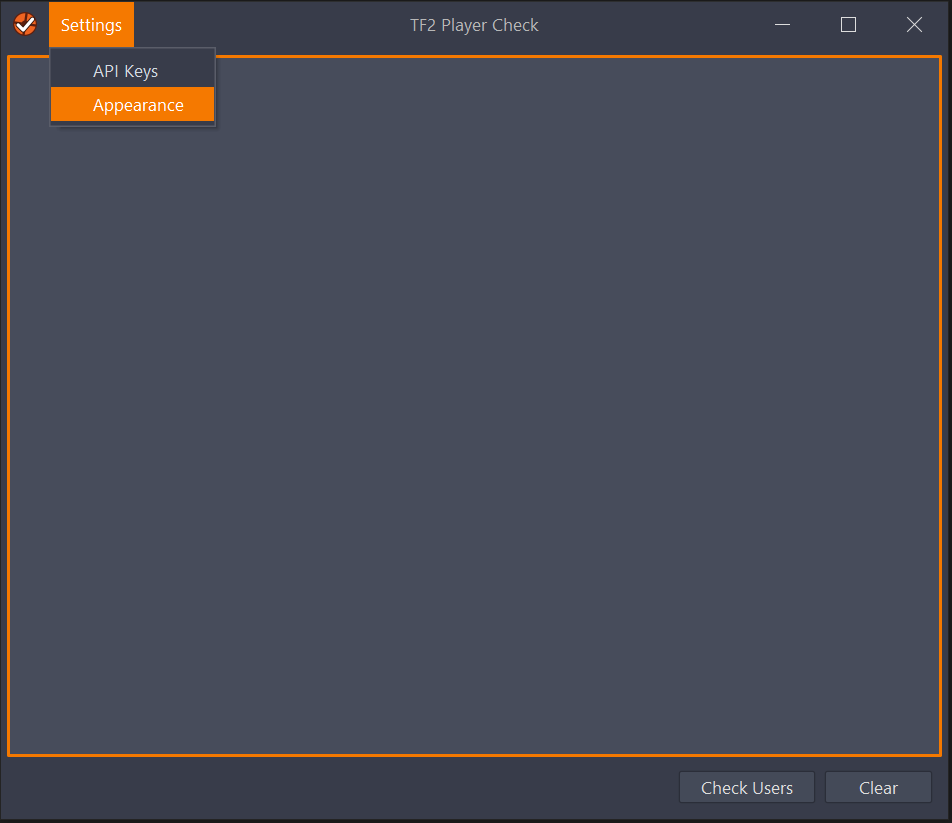
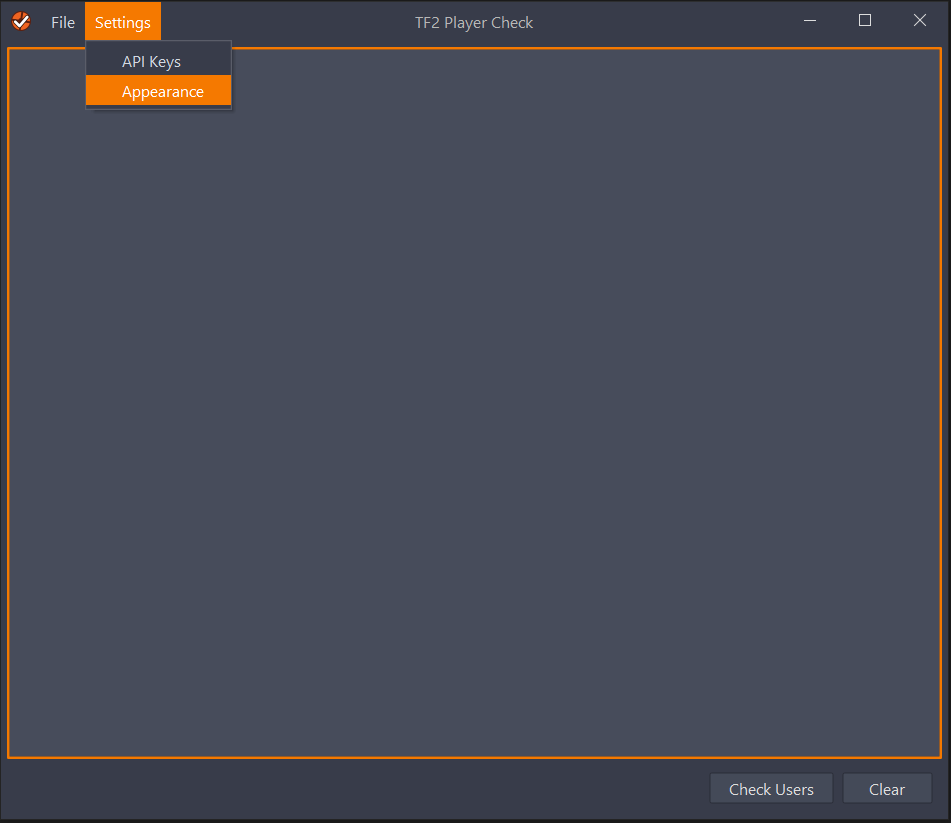
added file importing

Changed region(s): [[0.0, 0.0, 1.0, 0.9721]]

diff --git a/src/main/java/com/fooberticus/tf2playercheck/gui/frames/MainWindow.java b/src/main/java/com/fooberticus/tf2playercheck/gui/frames/MainWindow.java
@@ -17,9 +17,16 @@ import com.fooberticus.tf2playercheck.utils.SteamUtils;
 import lombok.extern.slf4j.Slf4j;
 
 import javax.swing.*;
+import javax.swing.filechooser.FileNameExtensionFilter;
 import java.awt.*;
 import java.awt.event.MouseAdapter;
 import java.awt.event.MouseEvent;
+import java.awt.event.WindowAdapter;
+import java.awt.event.WindowEvent;
+import java.io.BufferedReader;
+import java.io.File;
+import java.io.FileReader;
+import java.io.IOException;
 import java.util.ArrayList;
 import java.util.HashMap;
 import java.util.List;
@@ -186,6 +193,18 @@ public class MainWindow extends JFrame {
 
     private void showLoadingDialog(SwingWorker<Void, Void> mySwingWorker, String labelText) {
         final JDialog dialog = new JDialog(this, null, Dialog.ModalityType.APPLICATION_MODAL);
+        dialog.add(new LoadingPanel(labelText));
+        dialog.pack();
+        dialog.setLocationRelativeTo(this);
+
+        dialog.addWindowListener(new WindowAdapter() {
+            @Override
+            public void windowClosing(WindowEvent e) {
+                if (!mySwingWorker.isDone()) {
+                    mySwingWorker.cancel(true);
+                }
+            }
+        });
 
         mySwingWorker.addPropertyChangeListener(evt -> {
             if (evt.getPropertyName().equals("state")) {
@@ -194,11 +213,8 @@ public class MainWindow extends JFrame {
                 }
             }
         });
-        mySwingWorker.execute();
 
-        dialog.add(new LoadingPanel(labelText));
-        dialog.pack();
-        dialog.setLocationRelativeTo(this);
+        mySwingWorker.execute();
         dialog.setVisible(true);
     }
 
@@ -217,13 +233,26 @@ public class MainWindow extends JFrame {
             return;
         }
 
+        if (serverPlayers.size() > 100) {
+            JOptionPane.showMessageDialog(this,
+                    serverPlayers.size() +
+                            " Steam IDs found. Requests will be processed " +
+                            "in batches of 100 until complete.");
+        }
+
         disableButtons();
 
-        loadSteamSummaries(serverPlayers);
-        loadSteamBans(serverPlayers);
-        loadRentAMedicCheaters(serverPlayers);
-        loadSteamHistory(serverPlayers);
-        loadBackpackPlayers(serverPlayers);
+        int chunkSize = 100;
+        int size = serverPlayers.size();
+        for (int i = 0; i < size; i += chunkSize) {
+            List<ServerPlayer> subList = serverPlayers.subList(i, Math.min(i + chunkSize, size));
+
+            loadSteamSummaries(subList);
+            loadSteamBans(subList);
+            loadRentAMedicCheaters(subList);
+            loadSteamHistory(subList);
+            loadBackpackPlayers(subList);
+        }
 
         ResultsWindow.startResultsWindow(new HashMap<>(sourceBanMap), new HashMap<>(steamPlayerBanMap), new HashMap<>(rentAMedicResultMap), new HashMap<>(steamPlayerSummaryMap), new HashMap<>(backpackPlayerMap), serverPlayers);
 
@@ -235,6 +264,50 @@ public class MainWindow extends JFrame {
 
         enableButtons();
     }
+
+    private void importFromFile() {
+        JFileChooser fileChooser = new JFileChooser( GuiUtil.getLastFilePath() );
+
+        FileNameExtensionFilter filter = new FileNameExtensionFilter("Text Files", "txt", "text", "log");
+        fileChooser.setFileFilter(filter);
+
+        int result = fileChooser.showOpenDialog(null);
+
+        if (result == JFileChooser.APPROVE_OPTION) {
+            SwingWorker<Void, Void> mySwingWorker = new SwingWorker<>() {
+                @Override
+                protected Void doInBackground() throws Exception {
+                    File selectedFile = fileChooser.getSelectedFile();
+                    GuiUtil.setLastFilePath( selectedFile.getParent() );
+
+                    StringBuilder stringBuilder = new StringBuilder();
+                    try (BufferedReader reader = new BufferedReader( new FileReader( selectedFile ) )) {
+                        String line;
+                        while ( (line = reader.readLine()) != null ) {
+                            stringBuilder.append(line).append("\n");
+                            if ( isCancelled() ) {
+                                log.info("import cancelled");
+                                break;
+                            }
+                        }
+                    } catch (IOException e) {
+                        log.error("Error reading file: {}", e.getMessage());
+                        GuiUtil.showSystemTrayError("Error reading file: " + e.getMessage());
+                    }
+
+                    if ( !stringBuilder.isEmpty() ) {
+                        statusTextArea.setText( stringBuilder.toString() );
+                    }
+
+                    return null;
+                }
+            };
+
+            showLoadingDialog(mySwingWorker, "importing file...");
+        }
+
+    }
+
 
     private void enableButtons() {
         checkUsersButton.setEnabled(true);
@@ -250,6 +323,8 @@ public class MainWindow extends JFrame {
         // JFormDesigner - Component initialization - DO NOT MODIFY  //GEN-BEGIN:initComponents  @formatter:off
         // Generated using JFormDesigner non-commercial license
         menuBar1 = new JMenuBar();
+        menu2 = new JMenu();
+        menuItem3 = new JMenuItem();
         menu1 = new JMenu();
         menuItem1 = new JMenuItem();
         menuItem2 = new JMenuItem();
@@ -266,6 +341,17 @@ public class MainWindow extends JFrame {
 
         //======== menuBar1 ========
         {
+
+            //======== menu2 ========
+            {
+                menu2.setText("File"); //NON-NLS
+
+                //---- menuItem3 ----
+                menuItem3.setText("Import..."); //NON-NLS
+                menuItem3.addActionListener(e -> importFromFile());
+                menu2.add(menuItem3);
+            }
+            menuBar1.add(menu2);
 
             //======== menu1 ========
             {
@@ -335,6 +421,8 @@ public class MainWindow extends JFrame {
     // JFormDesigner - Variables declaration - DO NOT MODIFY  //GEN-BEGIN:variables  @formatter:off
     // Generated using JFormDesigner non-commercial license
     private JMenuBar menuBar1;
+    private JMenu menu2;
+    private JMenuItem menuItem3;
     private JMenu menu1;
     private JMenuItem menuItem1;
     private JMenuItem menuItem2;

diff --git a/src/main/java/com/fooberticus/tf2playercheck/utils/SteamUtils.java b/src/main/java/com/fooberticus/tf2playercheck/utils/SteamUtils.java
@@ -18,6 +18,7 @@ import java.util.regex.Pattern;
 public final class SteamUtils {
 
     public static final long STEAM_64_BASE = 76561197960265728L;
+    private static final Pattern STEAM_ID_64_PATTERN = Pattern.compile("(7[0-9]{16})");
     private static final Pattern STEAM_ID_32_PATTERN = Pattern.compile("\\[U:1:([0-9]+)]");
     private static final Pattern ID_PLUS_TIMESTAMP_PATTERN = Pattern.compile("\\[U:1:([0-9]+)] +([0-9:]+) +([0-9]+)");
 
@@ -30,11 +31,19 @@ public final class SteamUtils {
 
     public static List<Long> getUserIdsFromText(final String text) {
         Set<Long> result = new HashSet<>();
-        Matcher m = STEAM_ID_32_PATTERN.matcher(text);
-        while ( m.find() ) {
-            int steam32 = Integer.parseInt(m.group(1));
+
+        Matcher matcher32 = STEAM_ID_32_PATTERN.matcher(text);
+        while ( matcher32.find() ) {
+            int steam32 = Integer.parseInt(matcher32.group(1));
             result.add(steam32 + STEAM_64_BASE);
         }
+
+        Matcher matcher64 = STEAM_ID_64_PATTERN.matcher(text);
+        while ( matcher64.find() ) {
+            long steam64 = Long.parseLong(matcher64.group(1));
+            result.add(steam64);
+        }
+
         return result.stream().toList();
     }
 

diff --git a/src/main/java/com/fooberticus/tf2playercheck/utils/GuiUtil.java b/src/main/java/com/fooberticus/tf2playercheck/utils/GuiUtil.java
@@ -43,6 +43,8 @@ public final class GuiUtil {
     private static final String PROPERTY_WINDOW_X = "windowX";
     private static final String PROPERTY_WINDOW_Y = "windowY";
 
+    private static final String PROPERTY_LAST_FILE_PATH = "lastFilePath";
+
     private static final String PROPERTY_STEAM_HISTORY_KEY = "steamHistoryKey";
     private static final String PROPERTY_STEAM_API_KEY = "steamApiKey";
     private static final String PROPERTY_BACKPACKTF_API_KEY = "backpackTfApiKey";
@@ -291,6 +293,16 @@ public final class GuiUtil {
 
     public static void saveBackpackTfApiKey(String key) {
         prefs.put(PROPERTY_BACKPACKTF_API_KEY, key);
+    }
+
+    /* File Utilities */
+
+    public static String getLastFilePath() {
+        return prefs.get(PROPERTY_LAST_FILE_PATH, null);
+    }
+
+    public static void setLastFilePath(String path) {
+        prefs.put(PROPERTY_LAST_FILE_PATH, path);
     }
 
 }

diff --git a/README.md b/README.md
@@ -13,7 +13,21 @@ This tool takes console output from the `status` command to check several differ
 
 ![](https://github.com/fooberticus/TF2PlayerCheck/blob/main/img/10-right-mouse-1.png)
 
-# Setup and Running
+## Modern look and feel
+
+TF2PlayerCheck uses Flatlaf, with over a dozen popular themes for you to choose to customize your UI.
+
+![](https://github.com/fooberticus/TF2PlayerCheck/blob/main/img/theme-1.png)
+
+![](https://github.com/fooberticus/TF2PlayerCheck/blob/main/img/theme-2.png)
+
+![](https://github.com/fooberticus/TF2PlayerCheck/blob/main/img/theme-3.png)
+
+![](https://github.com/fooberticus/TF2PlayerCheck/blob/main/img/theme-4.png)
+
+![](https://github.com/fooberticus/TF2PlayerCheck/blob/main/img/theme-5.png)
+
+## Installation and Enabling TF2 Developer Console
 
 On Windows you can download a Zip or MSI installer from the releases section. Either install using the MSI, or unzip 
 where you wish to install. Run the .exe and the program will start. These Windows distributions come with a Java Runtime Environment (JRE) included.
@@ -22,16 +36,18 @@ On Linux you can download the .jar from the releases section and run it with `ja
 
 If you're a Java developer, you can clone this git project and run `mvn exec:java` in the project root. Requires Java 25 and Maven 3.
 
-In your TF2 game, be sure that the developer console is enabled. This is where you'll run the `status` command to get information
+In your TF2 game, be sure the developer console is enabled. This is where you'll run the `status` command to get information
 about who is playing on the server. When the status output is displayed, copy and paste it into the text field in the program.
 
-# Configuring API Keys
+For more information about enabling the developer console, see the [TF2 Wiki](https://wiki.teamfortress.com/wiki/Console).
+
+## Setup: Configuring API Keys
 
 The first time you run the program, you'll be presented with the API Key Configuration menu:
 
 ![](https://github.com/fooberticus/TF2PlayerCheck/blob/main/img/1-key-config.png)
 
-The first thing you'll need are API keys for the Steam API, SteamHistory.net API and Backpack.tf API.
+To use TF2PlayerCheck, you'll need API keys for the Steam API, SteamHistory.net API and Backpack.tf API.
 
 You can get a Steam API key here:
 
@@ -57,7 +73,7 @@ You can access both of these configuration windows at any time from the Settings
 
 ![](https://github.com/fooberticus/TF2PlayerCheck/blob/main/img/3-settings-menu.png)
 
-# Usage
+## Usage
 
 First, in Team Fortress 2, open the console and run the `status` command. Highlight the output text and copy it:
 
@@ -98,7 +114,25 @@ and more. You can also copy the player's name, Steam ID and any URLs to sources 
 
 ![](https://github.com/fooberticus/TF2PlayerCheck/blob/main/img/11-right-mouse-2.png)
 
-# Build and package the project
+## Advanced Usage: Importing from Files, JSON and More
+
+In addition to copying and pasting the output of `status`, you can also use any text containing Steam IDs. TF2PlayerCheck can parse Steam IDs from just about anything.
+
+![](https://github.com/fooberticus/TF2PlayerCheck/blob/main/img/12-json-text.png)
+
+You can also import a file directly into the text input area using the File → Import menu option. 
+
+![](https://github.com/fooberticus/TF2PlayerCheck/blob/main/img/13-file-menu.png)
+
+This is handy if you want to process a large console.log file, or you have a json file full of Steam IDs for instance.
+
+![](https://github.com/fooberticus/TF2PlayerCheck/blob/main/img/14-file-chooser.png)
+
+The various APIs TF2PlayerCheck uses have request size limits of 100 Steam IDs per request, but have no fear. 
+Lists of Steam IDs larger than that will be processed in multiple smaller batches. So if you have a console.log file that you've been accumulating 
+for a while that has thousands of IDs in it, go ahead and import it. Just be prepared to wait a bit while all the API calls are made.
+
+## Build and Package the Project
 
 If you're a Java developer, you can build the project with Maven:
 
